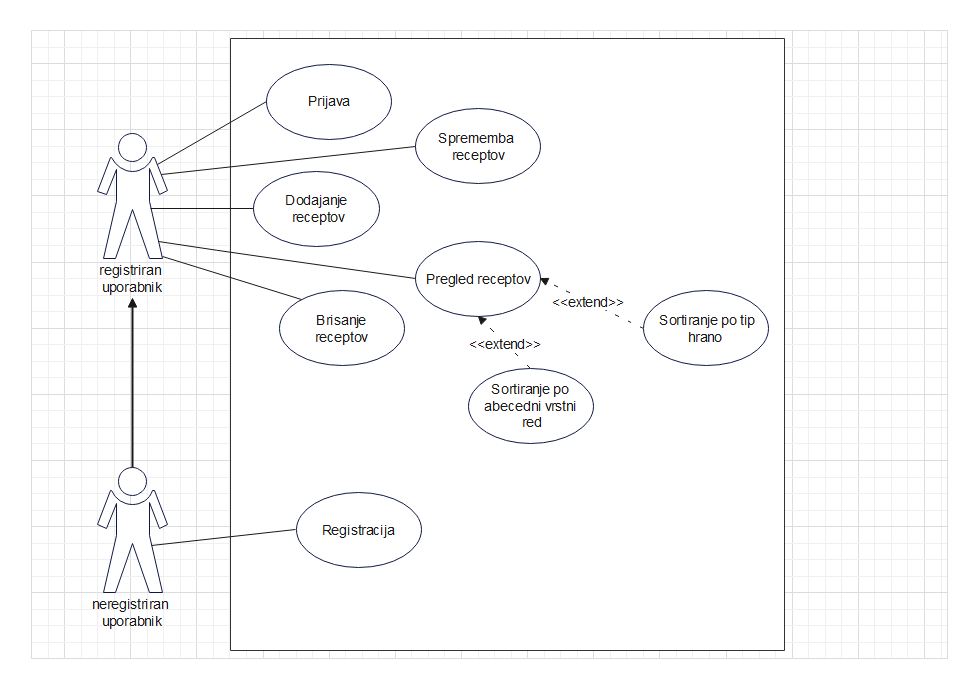
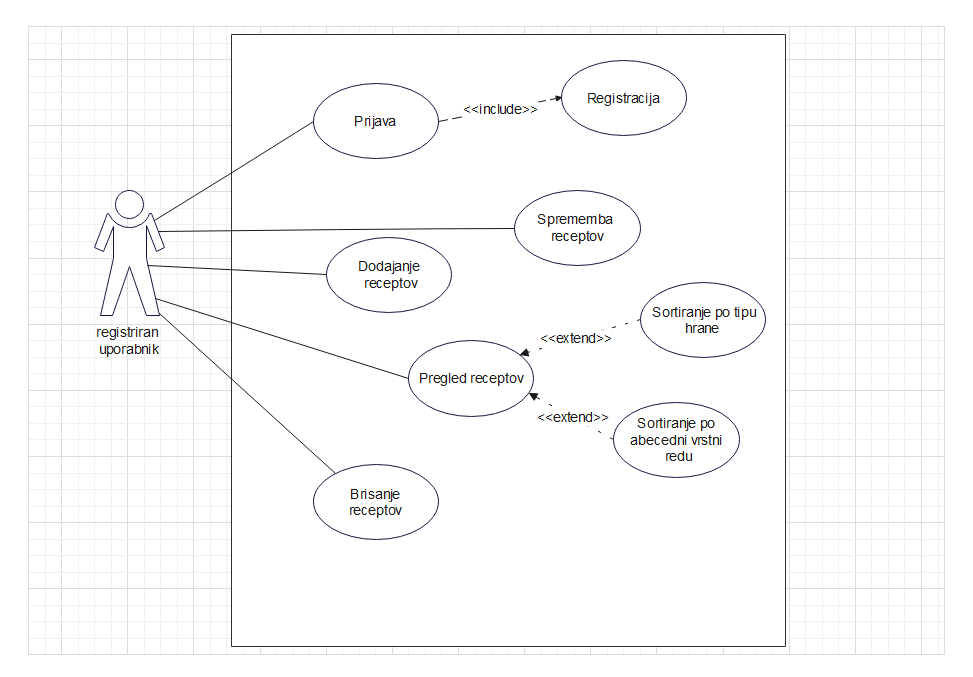
dpu

diff --git a/documentation/vizija_in_besednjak.md b/documentation/vizija_in_besednjak.md
@@ -28,7 +28,7 @@ or you can open this excel document [Glossary.xlsx](assets/Glossary.xlsx)
 
 - **Actors as Characters**: The actors (Registered and Unregistered users) are represented by icons for clarity.
 - **Use Cases**: Each use case (e.g., "Add Recipe", "Login") describes a specific action available to the actor.
-- **Includes and Extends**: Use `<<include>>` and `<<extend>>` for additional features related to a primary use case. For example, "Sort Recipes" extends to "Alphabetical Order" and "By Food Type."
+- **Includes and Extends**: Use `<<include>>` and `<<extend>>` for additional features related to a primary use case."
 
 <p align="center">
 <img src="./assets/dpu.png" alt="DPU Diagram" width="600px" >
